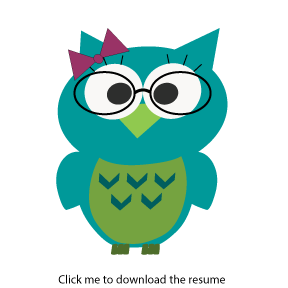
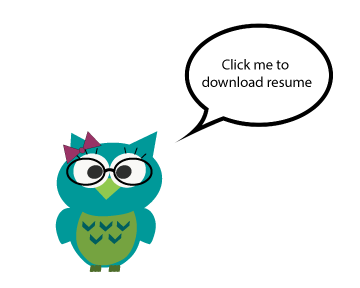
4

diff --git a/index.html b/index.html
@@ -257,7 +257,7 @@ created in Animate and then refined in Illustrator.
 </div></div>
 </div>
     
-    <div class="section"><div class="resume"><a href="img/kalus resume.pdf" title="link to download resume" target="_blank"><img src="img/meowlclick_resume.png" alt="imgage of an owl with glasses"></a></div><div class="res"><img src="img/kalus-resume.png" alt="zen owl"/></div></div>
+    <div class="section" id="res"><div class="resume"><a href="img/kalus resume.pdf" title="link to download resume" target="_blank"><img src="img/meowlclick_resume.png" alt="imgage of an owl with glasses"></a></div><div class="res"><img src="img/kalus-resume.png" alt="zen owl"/></div></div>
   </div>
 
 <input type="hidden" id="_4" value="3" />

diff --git a/css/styles.css b/css/styles.css
@@ -125,11 +125,21 @@ body {
 	background-size: cover;
 }
 
+#res {
+		width: 100%;
+	height: 100%;
+	position: relative;
+	background-image: url(../img/resumetree.png);
+	background-repeat: no-repeat;
+	background-size: cover;
+	
+}
 
 .resume {
 	float: left;
 	margin-left: 2%;
 	margin-top: 5%;
+
 }
 
 .res {
